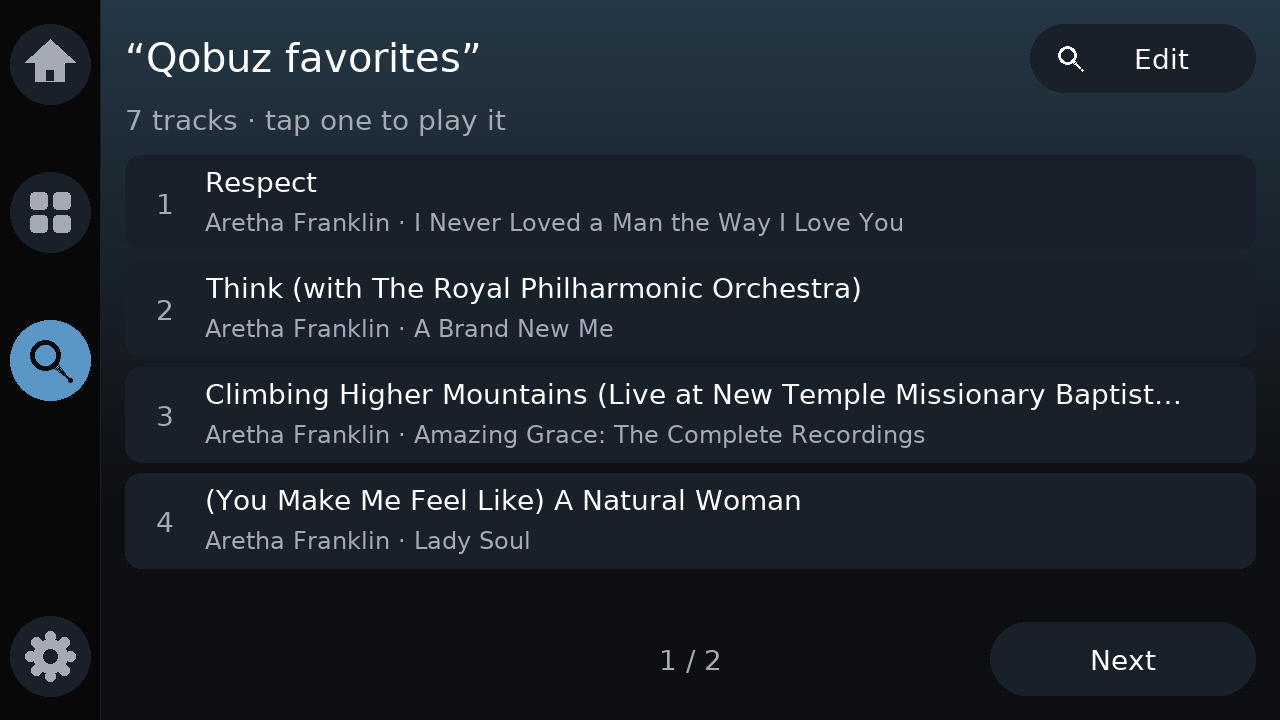
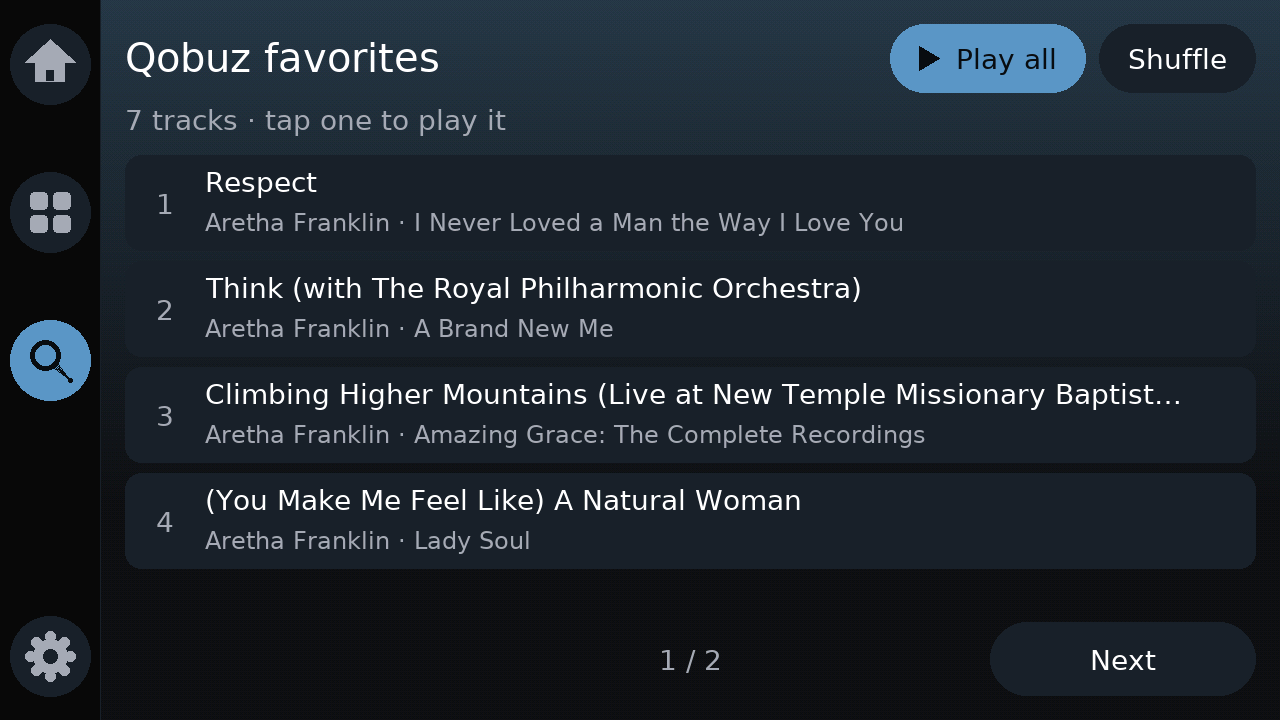
Favorites UX: Play all and Shuffle in the Qobuz and Deezer favorites lists
Task: better favorites experience (Qobuz, Deezer, saved favorites), step 5.

The "Qobuz favorites" and "Deezer favorites" lists get Play all and Shuffle buttons in
place of Edit (sized to their text so 800x480 fits; the list title has no quotes).
Shuffle is turned off before the queue is made (else CreateQueue reshuffles and the
first track is not the chosen one); Shuffle then starts at a random track of the whole
list (picked once two queue reads give the same count: the WiiM fills a queue in steps)
and turns shuffle on again (wr::loopWithShuffle). If nothing starts, the loop mode of
before comes back. Qobuz: the same favorite tracks queue as the
list. Deezer: the profile's "favorite tracks" playlist (wr::deezerLovedPlaylist) through
airable /deezer/playlist/<id>. Journal line [favlist.play] deezer= shuffle= ok=.

Verified: unit tests, simulator, tools/relay/selftest.sh case 7 on the mock WiiM (Play
all at index 1, Shuffle with loop mode 3), tools/check.sh native, sim, preview, asan,
simreal, desktop, tab5 (windows gate left to CI). Not verified on a WiiM: Deezer Play all
(airable may refuse the playlist address), docs/HARDWARE_TEST.md 2.5c and 3.4b.

Claude-Session: https://claude.ai/code/session_0152wyqgryjZTbBQviCtWzZw

Changed region(s): [[0.6875, 0.0306, 0.9688, 0.1528], [0.0938, 0.0611, 0.375, 0.1222]]

diff --git a/src/ui/ui_search.cpp b/src/ui/ui_search.cpp
@@ -174,7 +174,7 @@ void Ui::searchField(const std::string& query, const String& status, bool busy, 
 // Résultats : une ligne par morceau (titre, artiste · album), par pages
 void Ui::renderResults(const std::string& query, const std::vector<wr::QueueTrack>& items, int page,
                        const String& status, int pressed, const std::vector<int>& hearts,
-                       const std::vector<const ArtImage*>& covers) {
+                       const std::vector<const ArtImage*>& covers, bool listActions) {
     beginScreen(View::Other);
     auto& C = canvas_;
     background();
@@ -182,19 +182,43 @@ void Ui::renderResults(const std::string& query, const std::vector<wr::QueueTrac
     const wr::Rect& A = layout_.content;
     const int m = sc(18), X = A.x + m, W = A.w - 2 * m;
     auto measure = [&](const std::string& s) { return (int)C.textWidth(s.c_str()); };
-    // En-tête : « texte » · nombre, bouton Modifier
+    // En-tête : « texte » · nombre, bouton Modifier ; liste de favoris : Tout lire et Aléatoire à sa place (la
+    // recherche reste dans la barre), à la largeur de leur texte (les polices ne suivent pas la taille de l'écran)
     const int bh = sc(52), bw = sc(170);
-    const wr::Rect resultsEdit = wr::Rect{X + W - bw, A.y + m, bw, bh};
-    C.fillRoundRect(resultsEdit.x, resultsEdit.y, bw, bh, bh / 2, kCard);
-    searchIcon(resultsEdit.x + sc(30), resultsEdit.y + bh / 2, sc(9), kText, kCard);
+    const bool actions = listActions && !items.empty();
+    wr::Rect resultsEdit, playAll, shuffle;
+    int headW = W - bw - sc(20);
     useFont(C, kSmall);
     C.setTextDatum(textdatum_t::middle_center);
-    C.setTextColor(kText);
-    C.drawString(wr::L("Edit", "Modifier"), resultsEdit.x + bw / 2 + sc(14), resultsEdit.y + bh / 2 + 1);
+    if (!actions) {
+        resultsEdit = wr::Rect{X + W - bw, A.y + m, bw, bh};
+        C.fillRoundRect(resultsEdit.x, resultsEdit.y, bw, bh, bh / 2, kCard);
+        searchIcon(resultsEdit.x + sc(30), resultsEdit.y + bh / 2, sc(9), kText, kCard);
+        C.setTextColor(kText);
+        C.drawString(wr::L("Edit", "Modifier"), resultsEdit.x + bw / 2 + sc(14), resultsEdit.y + bh / 2 + 1);
+    } else {
+        const char* playText = wr::L("Play all", "Tout lire");
+        const char* mixText = wr::L("Shuffle", "Al\xC3\xA9" "atoire");
+        const int pad = sc(22), ts = sc(9), icon = 2 * ts + sc(10), g = sc(10);
+        const int mw = (int)C.textWidth(mixText) + 2 * pad, pw = (int)C.textWidth(playText) + 2 * pad + icon;
+        shuffle = wr::Rect{X + W - mw, A.y + m, mw, bh};
+        playAll = wr::Rect{shuffle.x - g - pw, A.y + m, pw, bh};
+        headW = playAll.x - X - sc(20);
+        C.fillRoundRect(playAll.x, playAll.y, pw, bh, bh / 2, accent_);
+        const int tx = playAll.x + pad + ts * 2 / 3, ty = playAll.y + bh / 2;
+        C.fillTriangle(tx - ts * 2 / 3, ty - ts, tx - ts * 2 / 3, ty + ts, tx + ts, ty, kBg);
+        C.setTextColor(kBg);
+        C.drawString(playText, playAll.x + icon + (pw - icon) / 2, ty + 1);
+        C.fillRoundRect(shuffle.x, shuffle.y, mw, bh, bh / 2, kCard);
+        C.setTextColor(kText);
+        C.drawString(mixText, shuffle.x + mw / 2, shuffle.y + bh / 2 + 1);
+    }
     useFont(C, kMid);
     C.setTextDatum(textdatum_t::middle_left);
-    const std::string head = std::string(wr::L("\xE2\x80\x9C", "\xC2\xAB ")) + query + wr::L("\xE2\x80\x9D", " \xC2\xBB");
-    C.drawString(wr::wrapText(head, W - bw - sc(20), 1, measure)[0].c_str(), X, A.y + m + bh / 2);
+    C.setTextColor(kText);
+    // Texte cherché entre guillemets ; une liste de favoris a un nom, pas une recherche : sans guillemets
+    const std::string head = listActions ? query : std::string(wr::L("\xE2\x80\x9C", "\xC2\xAB ")) + query + wr::L("\xE2\x80\x9D", " \xC2\xBB");
+    C.drawString(wr::wrapText(head, std::max(sc(40), headW), 1, measure)[0].c_str(), X, A.y + m + bh / 2);
     useFont(C, kSmall);
     C.setTextDatum(textdatum_t::top_left);
     C.setTextColor(kText2);
@@ -281,7 +305,11 @@ void Ui::renderResults(const std::string& query, const std::vector<wr::QueueTrac
     // le focus de départ est Modifier.
     if (resultsPrev.w > 0) targets_.add(wr::Act::ResultsPage, -1, resultsPrev);
     if (resultsNext.w > 0) targets_.add(wr::Act::ResultsPage, 1, resultsNext);
-    targets_.add(wr::Act::ResultsEdit, 0, resultsEdit, items.empty() ? wr::kTargetDefault : 0);
+    if (playAll.w > 0) {
+        targets_.add(wr::Act::ResultsPlayAll, 0, playAll);
+        targets_.add(wr::Act::ResultsPlayAll, 1, shuffle);
+    }
+    if (resultsEdit.w > 0) targets_.add(wr::Act::ResultsEdit, 0, resultsEdit, items.empty() ? wr::kTargetDefault : 0);
     present();
 }
 

diff --git a/src/net/wiim_worker_services.cpp b/src/net/wiim_worker_services.cpp
@@ -7,6 +7,8 @@
 
 #include <algorithm>
 
+#include "decisions.h"
+#include "deezer.h"
 #include "net/ca_bundle.h"
 #include "storage/favorites.h"
 #include "i18n.h"
@@ -324,4 +326,56 @@ bool WiimWorker::qobuzModel(const std::string& control, std::string& templ, bool
         return true;
     }
     return false;
+}
+
+// Tout lire / aléatoire depuis la liste des favoris. Lecture aléatoire retirée avant CreateQueue (sinon le WiiM
+// remélange la file et le premier morceau n'est pas celui choisi), remise après PlayQueueWithIndex si demandée : le
+// morceau en cours reste, la suite est mélangée. Deezer : playlist « coups de cœur » du profil par airable
+// (/deezer/playlist/<id>, même passerelle que les albums ; pas encore vérifié sur un WiiM).
+void WiimWorker::runPlayFavoriteList(bool deezer, bool shuffle) {
+    WiimEvent ev;
+    ev.kind = WiimEvent::FavPlayed;
+    std::string control, templ, url;
+    if (!findPlayQueue(control, false)) {
+        ev.text = wr::L("the WiiM does not accept a play queue", "le WiiM n'accepte pas de file de lecture");
+    } else if (deezer) {
+        std::string body, err;
+        const std::string user = deezerUserPath();
+        if (user.empty() || !deezerModel(control, templ)) {
+            ev.text = wr::L("first start a Deezer album from the WiiM Home app", "lance d'abord un album Deezer depuis l'app WiiM Home");
+        } else {
+            const int code = deezerGet(user + "/playlists?limit=100", body, err);
+            const std::string id = code == 200 && err.empty() ? wr::deezerLovedPlaylist(body) : std::string();
+            logEvent("Favoris Deezer : playlist des coups de c\xC5\x93ur %d %s%s%s", code, id.empty() ? "introuvable" : id.c_str(),
+                     err.empty() ? "" : " : ", err.c_str());
+            if (code != 200) ev.text = wr::L("Deezer is not responding", "Deezer ne r\xC3\xA9pond pas");
+            else if (!err.empty()) ev.text = wr::L("Deezer profile private or not found (", "profil Deezer priv\xC3\xA9 ou introuvable (") + String(err.c_str()) + ")";
+            else if (id.empty()) ev.text = wr::L("no favorite tracks playlist on this Deezer profile", "pas de playlist de coups de c\xC5\x93ur sur ce profil Deezer");
+            else url = wr::urlOrigin(wr::parseQueueContext(templ).searchUrl) + "/deezer/playlist/" + id;
+        }
+    } else if (!qobuzModel(control, templ)) {
+        ev.text = wr::L("first start a Qobuz album from the WiiM Home app", "lance d'abord un album Qobuz depuis l'app WiiM Home");
+    } else {
+        url = wiimq::kQobuzFavoritesUrl;
+    }
+    if (url.empty()) {
+        push(std::move(ev));
+        return;
+    }
+    wr::PlayerStatus st;
+    const int loop = client_.status(st) == WiimError::None ? st.loop : -1;
+    const int plain = wr::loopWithoutShuffle(loop);
+    if (plain >= 0) client_.command("setPlayerCmd:loopmode:" + String(plain));
+    const char* label = deezer ? "Favoris Deezer" : "Favoris Qobuz";
+    ev.ok = playAlbumAt(control, templ, url, "", label, shuffle);
+    if (ev.ok && shuffle) {
+        const int mixed = wr::loopWithShuffle(plain >= 0 ? plain : loop);
+        if (mixed >= 0) client_.command("setPlayerCmd:loopmode:" + String(mixed));
+    } else if (!ev.ok && plain >= 0) {
+        client_.command("setPlayerCmd:loopmode:" + String(loop));  // rien n'a démarré : le mode d'avant revient
+    }
+    logTagged("favlist.play", "deezer=%d shuffle=%d ok=%d | %s : %s%s", deezer ? 1 : 0, shuffle ? 1 : 0, ev.ok ? 1 : 0,
+              label, shuffle ? "lecture al\xC3\xA9" "atoire" : "tout lire", ev.ok ? "" : " (\xC3\xA9" "chec)");
+    if (!ev.ok) ev.text = wr::L("the WiiM did not start the list", "le WiiM n'a pas lanc\xC3\xA9 la liste");
+    push(std::move(ev));
 }

diff --git a/src/net/wiim_worker_favorites.cpp b/src/net/wiim_worker_favorites.cpp
@@ -116,11 +116,11 @@ void WiimWorker::autoFlowTile(const wr::QueueInfo& q, const std::string& current
 // File d'un album (le WiiM lit les pistes depuis `searchUrl`), lancée au morceau `title` (trouvé dans la file
 // relue : l'ordre peut être mélangé) ; le premier morceau si `title` est vide ou introuvable.
 bool WiimWorker::playAlbumAt(const std::string& control, const std::string& templ, const std::string& url,
-                             const std::string& title, const char* label) {
+                             const std::string& title, const char* label, bool randomStart) {
     const std::string name = std::string("wiimscreen-album-") + std::to_string(++searchCount_ % 2);
     deleteQueue(control, name);
     const int create = createQueue(control, wr::queueFromTemplate(templ, name, url));
-    int index = 0;
+    int index = 0, lastCount = -1;
     const uint32_t t0 = millis();
     if (create == 200) {
         while (index == 0 && millis() - t0 < 12000) {
@@ -128,7 +128,12 @@ bool WiimWorker::playAlbumAt(const std::string& control, const std::string& temp
             std::string back;
             if (browseQueue(control, name, back) != 200 || back.empty()) continue;
             const wr::QueueInfo q = wr::parseQueueContext(back, wr::kQueueTitlesMax);
-            index = title.empty() ? (q.tracks > 0 ? 1 : 0) : wr::queueIndexOf(q, title, true);
+            if (title.empty() && !randomStart) index = q.tracks > 0 ? 1 : 0;
+            else if (title.empty()) {  // au hasard dans toute la file : le WiiM la remplit par étapes, on attend
+                if (q.tracks > 0 && (q.tracks == lastCount || millis() - t0 > 6000))  // deux relevés égaux
+                    index = 1 + (int)(esp_random() % (uint32_t)q.tracks);
+                lastCount = q.tracks;
+            } else index = wr::queueIndexOf(q, title, true);
             if (index == 0 && q.tracks > 0 && millis() - t0 > 6000) index = 1;  // pas trouvé : début de l'album
         }
     }
@@ -184,6 +189,10 @@ void WiimWorker::runSaveAlbumFavorite(const AlbumFavRequest& r) {
 }
 
 void WiimWorker::runPlayFavorite(const String& id) {
+    if (id.startsWith("qobuz-favoris:") || id.startsWith("deezer-favoris:")) {
+        runPlayFavoriteList(id.startsWith("deezer"), id.endsWith(":shuffle"));
+        return;
+    }
     if (id.startsWith("qobuz-album:")) {
         runPlayQobuzAlbum(id.substring(12).c_str());
         return;

diff --git a/src/main.cpp b/src/main.cpp
@@ -1280,6 +1280,21 @@ static void activateSearch(const wr::Target& tg) {
             show();
             return;
         }
+        case wr::Act::ResultsPlayAll: {  // liste de favoris : toute la liste, dans l'ordre ou en aléatoire
+            const bool deezer = g_search.resultsKind == SearchKind::DeezerFavorites;
+            if (!deezer && g_search.resultsKind != SearchKind::QobuzFavorites) return;
+            const bool shuffle = tg.arg == 1;
+            sound::tap();
+            logEvent("Favoris %s : %s", deezer ? "Deezer" : "Qobuz", shuffle ? "lecture al\xC3\xA9" "atoire" : "tout lire");
+            g_worker.playFavorite((std::string(deezer ? kDeezerFavsId : kQobuzFavsId) + (shuffle ? ":shuffle" : ":all")).c_str());
+            markPending(wr::kPlayPause, Await::Music, true);
+            setMessage(shuffle ? wr::L("Shuffling your favorites\xE2\x80\xA6", "Tes favoris en al\xC3\xA9" "atoire\xE2\x80\xA6")
+                               : wr::L("Playing your favorites\xE2\x80\xA6", "Lecture de tes favoris\xE2\x80\xA6"),
+                       9000);
+            g_view.screen = Screen::Controls;
+            show();
+            return;
+        }
         case wr::Act::ResultsPage:
             sound::tap();
             g_search.page += tg.arg;

diff --git a/tools/sim/fake_wiim.cpp b/tools/sim/fake_wiim.cpp
@@ -469,6 +469,23 @@ void WiimWorker::runPlaySearchResult(int index) {
 void WiimWorker::runPlayFavorite(const String& id) {
     WiimEvent ev;
     ev.kind = WiimEvent::FavPlayed;
+    // Liste des favoris (Tout lire, Aléatoire) : la liste affichée, du premier morceau ou d'un au hasard
+    if (id.startsWith("qobuz-favoris:") || id.startsWith("deezer-favoris:")) {
+        const bool shuffle = id.endsWith(":shuffle");
+        pause(600, true);
+        if (!P.results.empty()) {
+            const size_t k = shuffle ? esp_random() % P.results.size() : 0;
+            play(P.results[k].first, P.results[k].second);
+            ev.ok = true;
+        } else {
+            ev.text = wr::L("the WiiM did not start the list", "le WiiM n'a pas lanc\xC3\xA9 la liste");
+        }
+        logTagged("favlist.play", "deezer=%d shuffle=%d ok=%d | Liste des favoris (simul\xC3\xA9" "e)",
+                  id.startsWith("deezer") ? 1 : 0, shuffle ? 1 : 0, ev.ok ? 1 : 0);
+        push(std::move(ev));
+        nextPoll_ = millis() + 300;
+        return;
+    }
     std::string albumId;
     if (id.startsWith("qobuz-album:")) albumId = id.substring(12).c_str();
     else if (id.startsWith("deezer-album:")) albumId = id.substring(13).c_str();

diff --git a/src/ui/ui.h b/src/ui/ui.h
@@ -128,9 +128,10 @@ public:
     const std::vector<wr::Key>& keys() const { return keys_; }
     // hearts : vide, ou un cœur par ligne (0 vide, 1 plein) : albums que l'on peut mettre en tuile.
     // covers : vide, ou une image par ligne (nullptr : pas encore là) ; une ligne dont `art` est vide garde son numéro
+    // listActions : liste de morceaux favoris, boutons « Tout lire » et « Aléatoire » (ResultsPlayAll) avant Modifier
     void renderResults(const std::string& query, const std::vector<wr::QueueTrack>& items, int page,
                        const String& status, int pressed = -1, const std::vector<int>& hearts = {},
-                       const std::vector<const ArtImage*>& covers = {});
+                       const std::vector<const ArtImage*>& covers = {}, bool listActions = false);
     // Pochette arrivée après l'affichage de la liste : seule sa case est redessinée (si la ligne est visible)
     void updateResultCover(int index, const ArtImage* img);
     int resultsFirst() const { return resultsFirst_; }

diff --git a/tools/preview/preview.cpp b/tools/preview/preview.cpp
@@ -355,9 +355,9 @@ int main(int argc, char** argv) {
         save(out, "29-dictee.ppm");
         ui.renderResults("aretha franklin", found, 0, "");
         save(out, "25-resultats.ppm");
-        ui.renderResults(wr::L("Qobuz favorites", "Favoris Qobuz"), {}, 0, wr::L("Loading your Qobuz favorites\xE2\x80\xA6", "Chargement de tes favoris Qobuz\xE2\x80\xA6"));
+        ui.renderResults(wr::L("Qobuz favorites", "Favoris Qobuz"), {}, 0, wr::L("Loading your Qobuz favorites\xE2\x80\xA6", "Chargement de tes favoris Qobuz\xE2\x80\xA6"), -1, {}, {}, true);
         save(out, "31-favoris-qobuz-chargement.ppm");
-        ui.renderResults(wr::L("Qobuz favorites", "Favoris Qobuz"), found, 0, "");
+        ui.renderResults(wr::L("Qobuz favorites", "Favoris Qobuz"), found, 0, "", -1, {}, {}, true);  // Tout lire, Aléatoire
         save(out, "32-favoris-qobuz.ppm");
         ui.renderSearch("miles", "", false, -1, 2, false);  // Qobuz | Albums (pas de Deezer)
         save(out, "35-albums.ppm");

diff --git a/src/net/wiim_worker.h b/src/net/wiim_worker.h
@@ -116,8 +116,12 @@ private:
     std::vector<wr::QobuzAlbum> qobuzAlbums_;  // ResultsFrom::QobuzAlbums : albums trouvés
     void runPlayFavorite(const String& id);
     void runQobuzFavoriteList(const String& title);
+    // randomStart (title vide) : un morceau au hasard au lieu du premier
     bool playAlbumAt(const std::string& control, const std::string& templ, const std::string& url,
-                     const std::string& title, const char* label);
+                     const std::string& title, const char* label, bool randomStart = false);
+    // Liste des morceaux favoris (Qobuz, Deezer) lue en entier, dans l'ordre ou en aléatoire (ids
+    // « qobuz-favoris:all|shuffle », « deezer-favoris:all|shuffle » de playFavorite)
+    void runPlayFavoriteList(bool deezer, bool shuffle);
     bool qobuzAccess(const std::string& control, bool refresh);
     int qobuzGet(const std::string& control, const std::string& path, std::string& out);
     void runQobuzFavorites();

diff --git a/test/test_core/test_qobuz_deezer.cpp b/test/test_core/test_qobuz_deezer.cpp
@@ -74,6 +74,11 @@ static void test_qobuz_json() {
     TEST_ASSERT_EQUAL_STRING("Daft Punk", dz[0].artist.c_str());
     TEST_ASSERT_EQUAL_STRING("https://e-cdns/c.jpg", dz[0].image.c_str());
     TEST_ASSERT_EQUAL(14, dz[0].tracks);
+    TEST_ASSERT_EQUAL_STRING("908622995", deezerLovedPlaylist(
+        "{\"data\":[{\"id\":11,\"title\":\"Road\",\"is_loved_track\":false},"
+        "{\"id\":908622995,\"title\":\"Loved tracks\",\"is_loved_track\":true,\"nb_tracks\":42}],\"total\":2}").c_str());
+    TEST_ASSERT_EQUAL_STRING("", deezerLovedPlaylist("{\"data\":[{\"id\":11,\"is_loved_track\":false}]}").c_str());
+    TEST_ASSERT_EQUAL_STRING("", deezerLovedPlaylist("{\"data\":[{\"id\":\"1/2\",\"is_loved_track\":true}]}").c_str());
     auto names = jsonValuesOf("[{\"source\":\"Qobuz\",\"showName\":\"Qobuz\"},{\"showName\":\"Deezer\"}]", "showName");
     TEST_ASSERT_EQUAL(2, (int)names.size());
     TEST_ASSERT_EQUAL_STRING("Deezer", names[1].c_str());

diff --git a/src/net/wiim_worker_search.cpp b/src/net/wiim_worker_search.cpp
@@ -518,15 +518,14 @@ void WiimWorker::runQobuzFavoriteList(const String& title) {
     deleteQueue(control, name);
     const int c = createQueue(
         control,
-        wr::queueFromTemplate(templ, name,
-                              "https://www.qobuz.com/api.json/0.2/favorite/getUserFavorites?type=tracks&offset=0&limit=100"));
+        wr::queueFromTemplate(templ, name, wiimq::kQobuzFavoritesUrl));
     wr::QueueInfo q;
     const bool loaded = c == 200 && readQueueStable(this, control, name, 8, q);
     searchGuardEnd(control, guard, error);
     logEvent("Favoris Qobuz (file) : CreateQueue %d, %d morceau(x)", c, loaded ? q.tracks : 0);
     resultsFrom_ = ResultsFrom::WiimQueue;
     searchQueue_ = name;
-    searchUrl_ = "https://www.qobuz.com/api.json/0.2/favorite/getUserFavorites?type=tracks&offset=0&limit=100";
+    searchUrl_ = wiimq::kQobuzFavoritesUrl;
     ev.ok = loaded;
     ev.tracks = q.items;
     searchTitles_.clear();

diff --git a/lib/core/src/decisions.h b/lib/core/src/decisions.h
@@ -43,6 +43,9 @@ RestoreAction restoreAction(const PlaybackBefore& before, const PlayerStatus& no
 // shuffle is already off. 0 repeat all, 1 repeat one, 2 shuffle + repeat all, 3 shuffle, 4 no repeat, 5 shuffle +
 // repeat one. A search through a WiiM queue turns shuffle off for its duration: else the WiiM shuffles the results.
 int loopWithoutShuffle(int loop);
+// The other way: same repeat with shuffle (0 → 2, 4 → 3, 1 → 5), or -1 if shuffle is already on (2, 3, 5). An
+// unknown mode (-1 or another value) gives 3, shuffle without repeat ("Shuffle" of a favorites list).
+int loopWithShuffle(int loop);
 
 // Search through a WiiM queue: try the next way to write the query? `found`: the queue got tracks; `relevant`: they
 // share a word with the query; `empties`: queues that stayed empty so far (this one included). An empty queue means no

diff --git a/lib/core/src/focus.cpp b/lib/core/src/focus.cpp
@@ -200,7 +200,7 @@ const char* actName(Act act) {
                                          "dots", "preset", "strip", "fav", "transport", "ambientexit", "menuchoice", "tilechoice", "libfilter", "libtile", "libpage",
                                          "pickdevice", "pickretry", "picksetup", "logclose", "logqueue", "touchclose",
                                          "source", "mic", "key", "resultrow", "resultheart", "resultspage",
-                                         "resultsedit", "updatecancel"};
+                                         "resultsedit", "resultsplayall", "updatecancel"};
     static_assert(sizeof kNames / sizeof kNames[0] == (size_t)Act::UpdateCancel + 1, "one name per Act");
     const size_t i = (size_t)act;
     return i < sizeof kNames / sizeof kNames[0] ? kNames[i] : "?";
